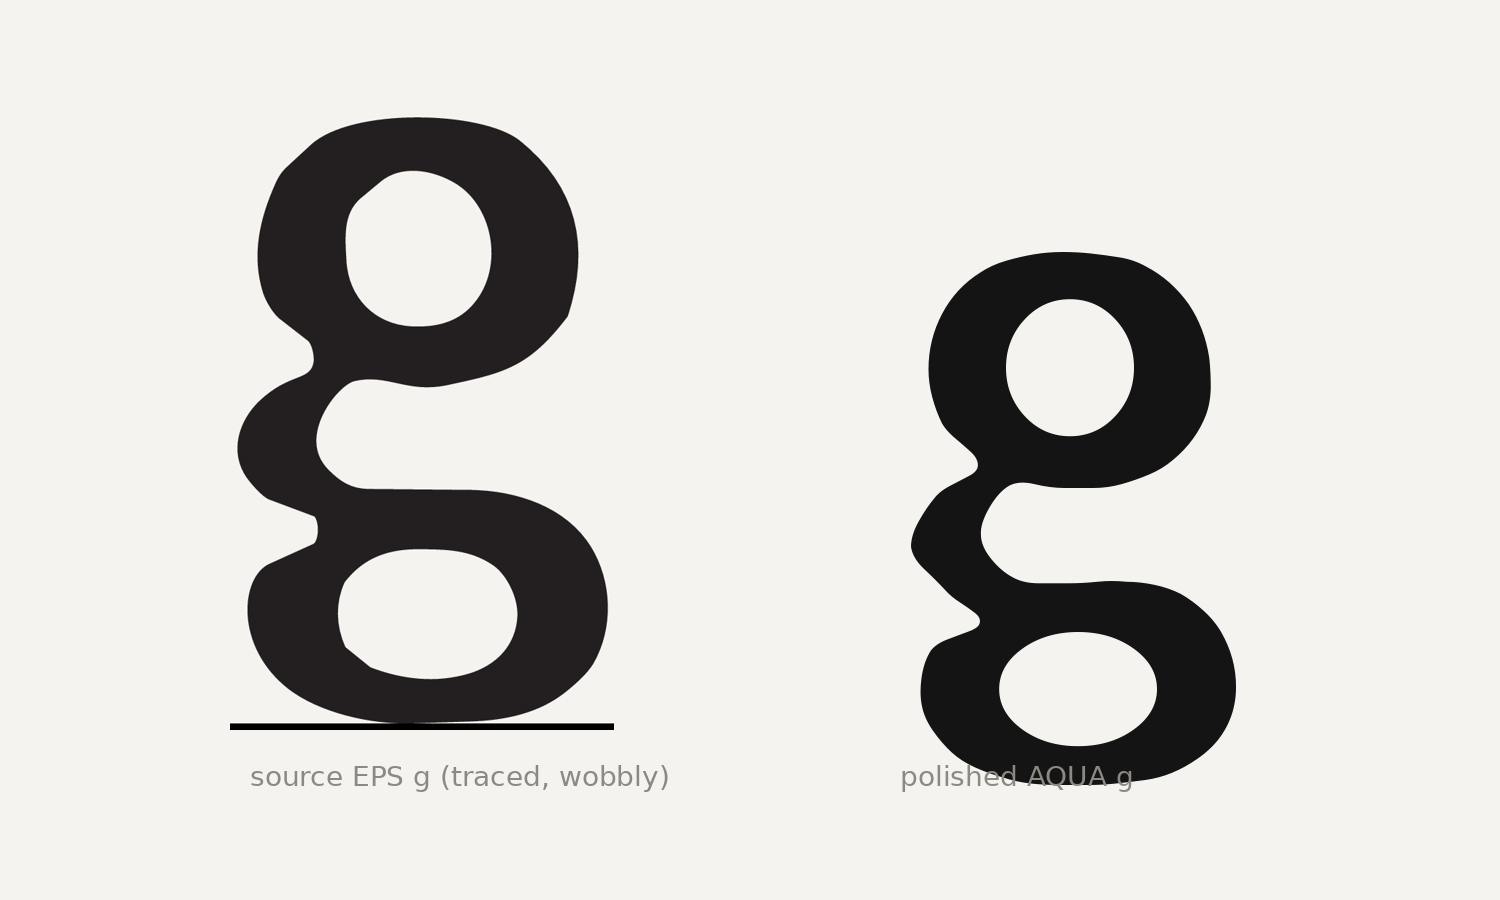
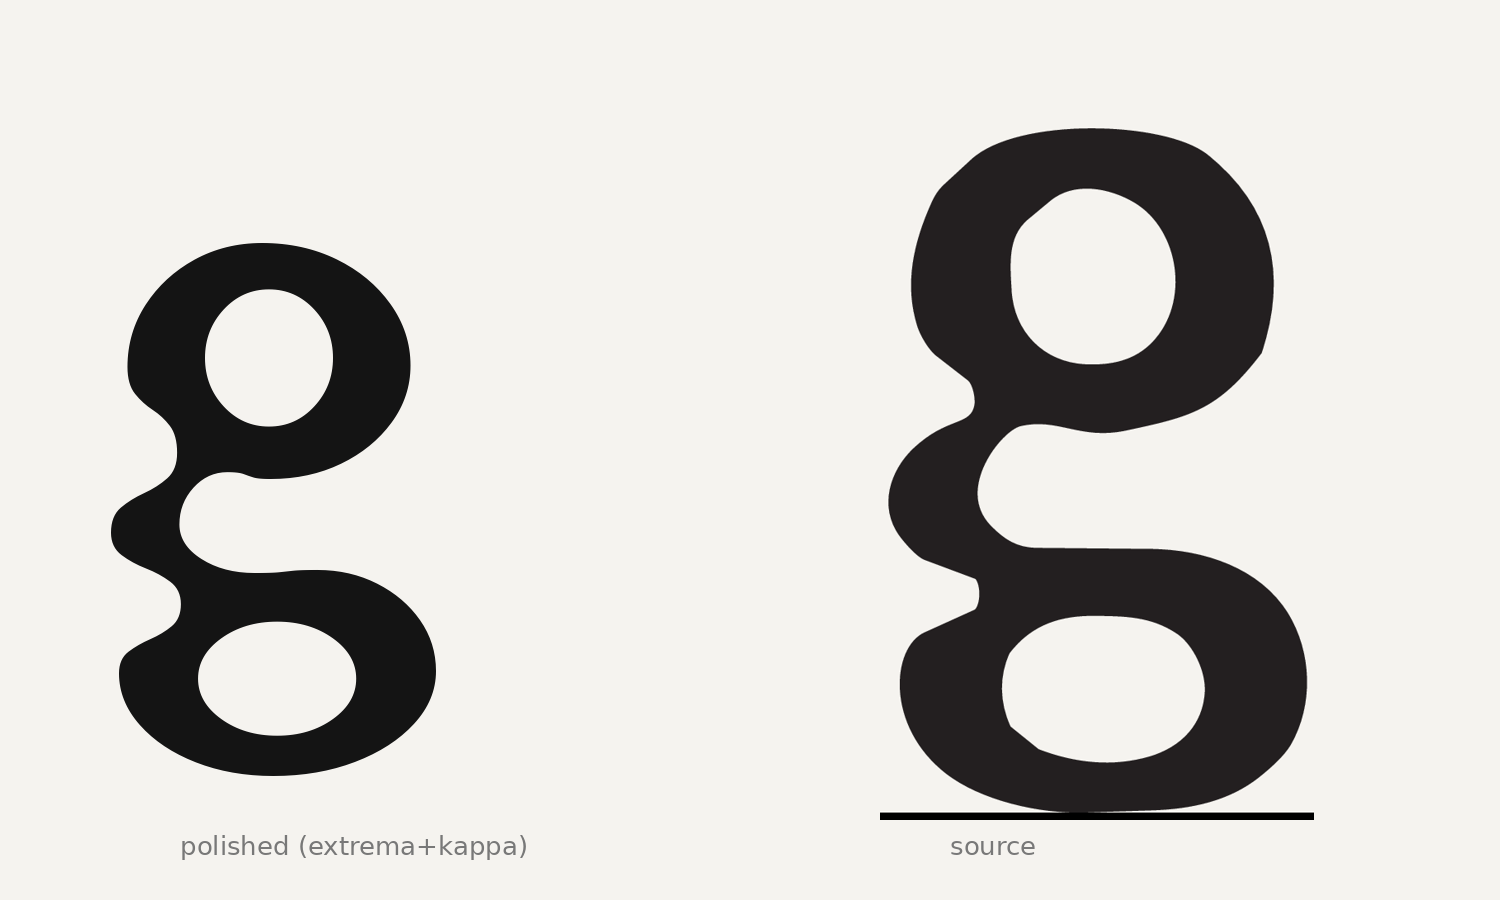
Redraw the g curves at the extremes: smooth the crooked left flank
The left flank (spur + waist) was still crooked — too many points, none
at the extremes. Refit the outer with anchors ONLY at the true extremes
(dx/dt=0, dy/dt=0), joined by cubic beziers with axis-aligned symmetric
handles at ~55.3% (kappa). 14 clean anchors instead of a wandering 34;
the spur and both waist pinches are now smooth bezier arcs. Counters stay
clean kappa ovals. fit_extrema.py holds the extrema fitter.

Claude-Session: https://claude.ai/code/session_01AufTLR6FUSxSFH28PcLESA

Changed region(s): [[0.0613, 0.1244, 0.46, 0.8711], [0.5827, 0.1244, 0.8893, 0.9644], [0.1227, 0.9333, 0.368, 0.9644]]

diff --git a/aqua-kit/engine/polish_g.py b/aqua-kit/engine/polish_g.py
@@ -1,41 +1,27 @@
 """
 Polish the traced g with type-design principles.
 
-  * counters -> clean ovals at the measured centres/radii (kills their wobble)
-  * outer   -> periodic smoothing spline to remove trace noise, with anchors
-               FORCED at the real extremes (eye-top, loop-bottom, right, and
-               the spur tip) so on-curve points land where a type designer
-               would put them, then clean cubics laid through them.
-Silhouette, link, right-notch, left spur and weight preserved.
+The g outline was image-traced from a low-res source, so it carried trace
+noise — a crooked left flank, wandering spur, irregular counters.
+
+  * OUTER  -> refit with anchors ONLY at the true extremes (dx/dt=0, dy/dt=0),
+              joined by cubic beziers with axis-aligned, symmetric handles at
+              ~55.3% (kappa). Few points, on-curve at the extremes: smooth.
+  * COUNTERS -> redrawn as clean kappa ovals at the measured centres/radii,
+                wound opposite the outer so they stay holes.
+
+Silhouette, link, right-notch, left spur and weight preserved; curves clean.
+Writes g_polished_outline.json, which aquascript.py embeds as the g.
 """
 import json
 import numpy as np
-from scipy.interpolate import splprep, splev
+from fit_extrema import fit
 
 K = 0.5523
 
 
-def flatten(contour, per_cubic=30):
-    pts, cur = [], None
-    for seg in contour:
-        if seg[0] == "m":
-            cur = np.array([seg[1], seg[2]], float); pts.append(cur)
-        elif seg[0] == "l":
-            cur = np.array([seg[1], seg[2]], float); pts.append(cur)
-        elif seg[0] == "c":
-            c1 = np.array([seg[1], seg[2]], float)
-            c2 = np.array([seg[3], seg[4]], float)
-            end = np.array([seg[5], seg[6]], float)
-            for t in np.linspace(0, 1, per_cubic)[1:]:
-                mt = 1 - t
-                pts.append(mt**3 * cur + 3 * mt**2 * t * c1 +
-                           3 * mt * t**2 * c2 + t**3 * end)
-            cur = end
-    return np.array(pts)
-
-
 def oval(cx, cy, rx, ry, ccw):
-    """Clean oval. ccw=True: top->left->bottom->right. Else clockwise."""
+    """Clean kappa oval. ccw=True: top->left->bottom->right, else clockwise."""
     kx, ky = K * rx, K * ry
     r = lambda a, b: [round(a, 2), round(b, 2)]
     if ccw:
@@ -51,70 +37,20 @@ def oval(cx, cy, rx, ry, ccw):
             ["c", *r(cx - rx, cy + ky), *r(cx - kx, cy + ry), *r(cx, cy + ry)]]
 
 
-def catmull(A):
-    n = len(A)
-    out = [["m", round(A[0][0], 2), round(A[0][1], 2)]]
-    for i in range(n):
-        p0, p1, p2, p3 = A[(i-1) % n], A[i], A[(i+1) % n], A[(i+2) % n]
-        c1 = p1 + (p2 - p0) / 6.0
-        c2 = p2 - (p3 - p1) / 6.0
-        out.append(["c", round(c1[0], 2), round(c1[1], 2),
-                    round(c2[0], 2), round(c2[1], 2),
-                    round(p2[0], 2), round(p2[1], 2)])
-    return out
-
-
-def smooth_outer(contour, s, n, forced):
-    P = flatten(contour)
-    if np.allclose(P[0], P[-1]):
-        P = P[:-1]
-    tck, _ = splprep([P[:, 0], P[:, 1]], s=s, per=1)
-    dense = np.array(splev(np.linspace(0, 1, 1200, endpoint=False), tck)).T
-    us = list(np.linspace(0, 1, n, endpoint=False))
-    for fp in forced:
-        k = np.argmin(np.hypot(dense[:, 0]-fp[0], dense[:, 1]-fp[1]))
-        us.append(k / 1200.0)
-    us = np.unique(np.round(np.sort(us), 5))
-    ax, ay = splev(us, tck)
-    return np.column_stack([ax, ay])
-
-
 def signed_area(A):
     x, y = A[:, 0], A[:, 1]
     return 0.5 * np.sum(x * np.roll(y, -1) - np.roll(x, -1) * y)
 
 
-def reverse_contour(c):
-    pts = [(c[0][1], c[0][2])]
-    for seg in c[1:]:
-        pts.append((seg[5], seg[6]) if seg[0] == "c" else (seg[1], seg[2]))
-    ctrls = [None] + [((s[1], s[2]), (s[3], s[4])) if s[0] == "c" else None
-                      for s in c[1:]]
-    n = len(pts)
-    out = [["m", round(pts[0][0], 2), round(pts[0][1], 2)]]
-    for i in range(n):
-        a = pts[(n - i) % n]
-        cc = ctrls[(n - i) % n]
-        if cc is None:
-            out.append(["l", round(a[0], 2), round(a[1], 2)])
-        else:
-            out.append(["c", round(cc[1][0], 2), round(cc[1][1], 2),
-                        round(cc[0][0], 2), round(cc[0][1], 2),
-                        round(a[0], 2), round(a[1], 2)])
-    return out
-
-
 contours = json.load(open("g_real_outline.json"))
 outer = max(contours, key=len)
 
-A = smooth_outer(outer, s=200.0, n=34, forced=[])
-outer_c = catmull(A)
-outer_ccw = signed_area(A) > 0                 # counters must wind opposite
-cc = not outer_ccw
+outer_c, n_anchors = fit(outer, s=350.0)
+A = np.array([[s[-2], s[-1]] for s in outer_c])
+cc = not (signed_area(A) > 0)                  # counters wind opposite outer
 
-eye = oval(249, 375, 84, 90, cc)
+eye = oval(249, 375, 84, 90, cc)               # measured centre / radii
 loop = oval(260, -47, 104, 75, cc)
 
 json.dump([outer_c, eye, loop], open("g_polished_outline.json", "w"))
-print("wrote g_polished_outline.json  outer CCW:", outer_ccw,
-      "sizes", [len(outer_c), len(eye), len(loop)])
+print(f"wrote g_polished_outline.json  outer anchors={n_anchors}")

diff --git a/aqua-kit/engine/fit_extrema.py b/aqua-kit/engine/fit_extrema.py
@@ -1,0 +1,57 @@
+"""Fit a contour with anchors only at the extremes (dx/dt=0 or dy/dt=0),
+joined by cubic beziers with axis-aligned, kappa-scaled symmetric handles.
+Few points, on-curve at the extremes: clean type-design curves."""
+import numpy as np
+from scipy.interpolate import splprep, splev
+K = 0.5523
+
+def flatten(contour, per=28):
+    pts, cur = [], None
+    for s in contour:
+        if s[0]=='m': cur=np.array([s[1],s[2]],float); pts.append(cur)
+        elif s[0]=='l': cur=np.array([s[1],s[2]],float); pts.append(cur)
+        elif s[0]=='c':
+            c1=np.array([s[1],s[2]],float); c2=np.array([s[3],s[4]],float); e=np.array([s[5],s[6]],float)
+            for t in np.linspace(0,1,per)[1:]:
+                mt=1-t; pts.append(mt**3*cur+3*mt**2*t*c1+3*mt*t**2*c2+t**3*e)
+            cur=e
+    return np.array(pts)
+
+def fit(contour, s, min_sep_t=0.012):
+    P=flatten(contour)
+    if np.allclose(P[0],P[-1]): P=P[:-1]
+    tck,_=splprep([P[:,0],P[:,1]],s=s,per=1)
+    N=4000; t=np.linspace(0,1,N,endpoint=False)
+    x,y=splev(t,tck); dx,dy=splev(t,tck,der=1)
+    ex=[]
+    for arr,tan in [(dx,'v'),(dy,'h')]:
+        sgn=np.sign(arr)
+        for i in range(N):
+            if sgn[i]==0 or sgn[i]!=sgn[(i+1)%N]:
+                ex.append((t[i],tan))
+    ex.sort()
+    # dedupe close-in-t
+    keep=[]
+    for tt,tan in ex:
+        if not keep or (tt-keep[-1][0])>min_sep_t: keep.append((tt,tan))
+    if len(keep)>1 and (1-keep[-1][0]+keep[0][0])<min_sep_t: keep.pop()
+    A=[]
+    for tt,tan in keep:
+        px,py=splev(tt,tck); ddx,ddy=splev(tt,tck,der=1)
+        A.append((np.array([float(px),float(py)]), tan, np.array([float(ddx),float(ddy)])))
+    # build beziers
+    def unit(v):
+        n=np.hypot(*v); return v/n if n>1e-9 else v
+    out=[['m',round(float(A[0][0][0]),2),round(float(A[0][0][1]),2)]]
+    n=len(A)
+    for i in range(n):
+        p0,t0,d0=A[i]; p1,t1,d1=A[(i+1)%n]
+        u0=unit(np.array([d0[0],0.0]) if t0=='h' else np.array([0.0,d0[1]]))
+        u1=unit(np.array([d1[0],0.0]) if t1=='h' else np.array([0.0,d1[1]]))
+        delta=p1-p0
+        l0=K*abs(np.dot(delta,u0)); l1=K*abs(np.dot(delta,u1))
+        c1=p0+u0*l0; c2=p1-u1*l1
+        out.append(['c',round(float(c1[0]),2),round(float(c1[1]),2),
+                    round(float(c2[0]),2),round(float(c2[1]),2),
+                    round(float(p1[0]),2),round(float(p1[1]),2)])
+    return out, len(A)
